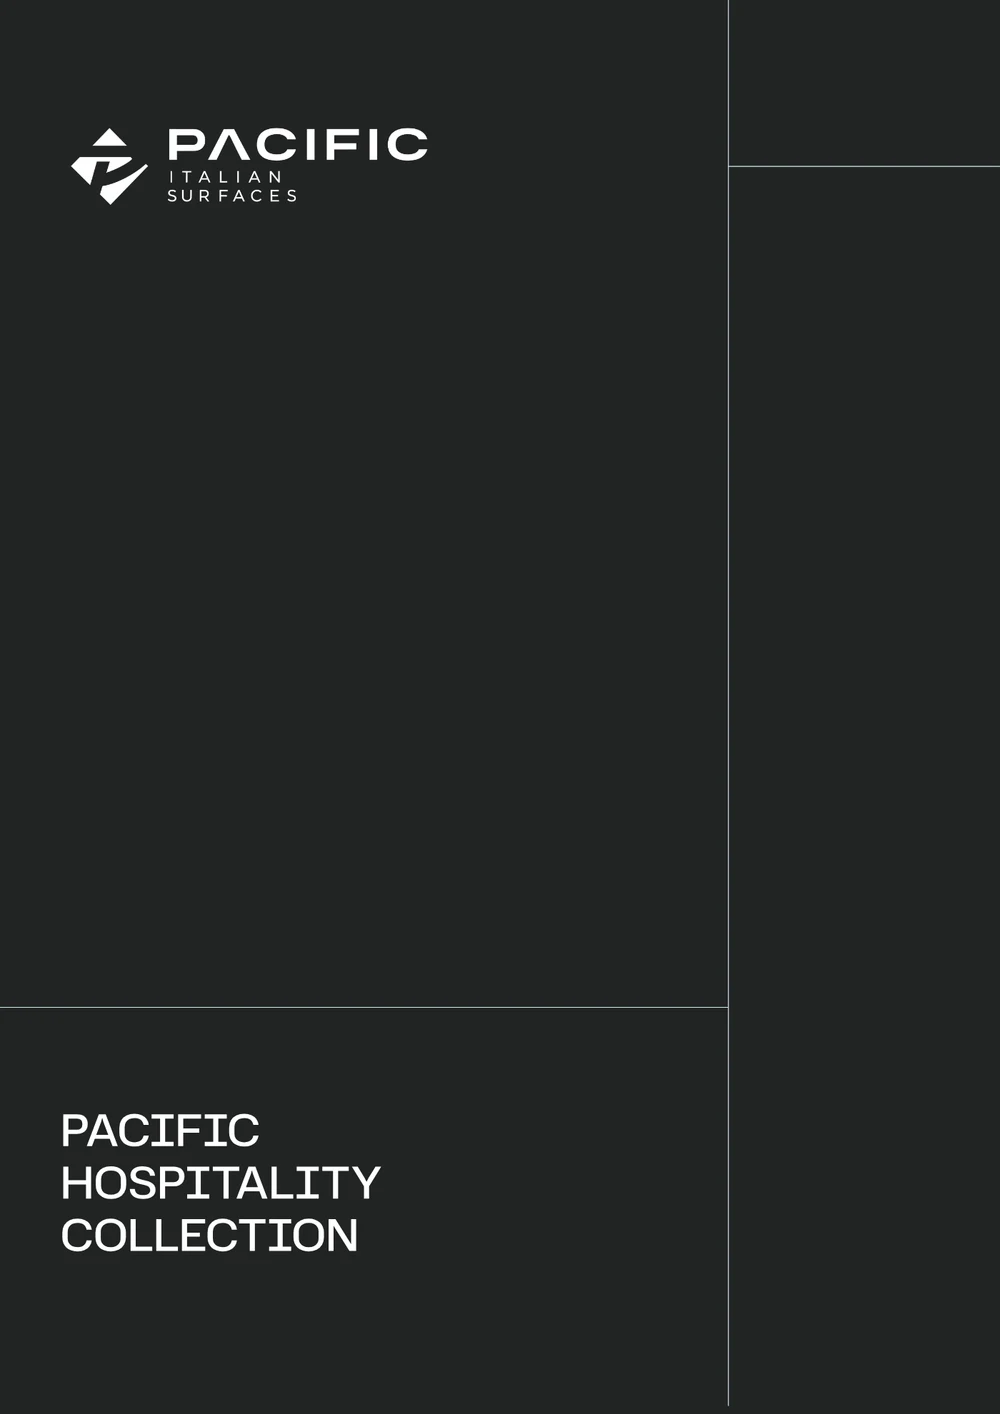
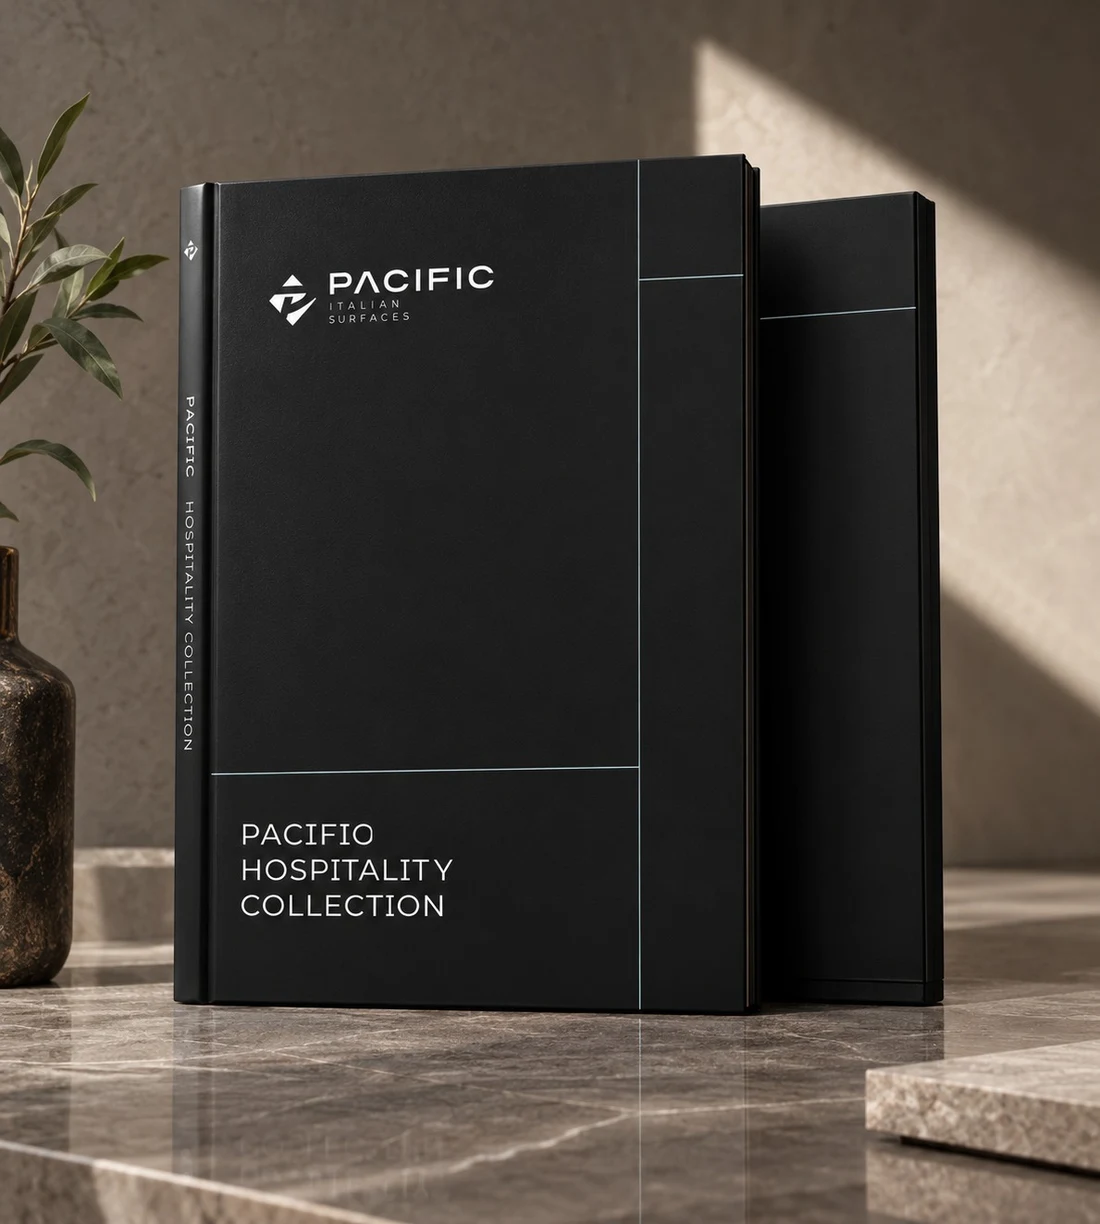
Open a catalogue by clicking the card, and use the supplied cover
The card itself now opens the reader, not only the Read button. It stays
a div with role="button" and a tab stop rather than a real <button>,
because a button cannot legally contain the Download anchor that sits
inside it; that anchor stops propagation so downloading does not also
open the reader. Enter and Space work, and there is a visible focus ring.

Verified: card body opens it, Read opens it, keyboard Enter opens it, and
Download does not.

Cover replaced with the supplied product shot. It was rendered from page
one of the PDF before, because the image had only ever been pasted into
chat; this one arrived on disk.

diff --git a/src/components/sections/ResourcesContent.tsx b/src/components/sections/ResourcesContent.tsx
@@ -181,7 +181,30 @@ function ResourceCard({ resource }: { resource: SanityResource }) {
 
   return (
     <StaggerItem>
-      <div className="group relative aspect-[3/4] overflow-hidden rounded-2xl bg-[#0a1620] border border-white/10 hover:border-white/25 transition-all duration-500">
+      {/* The whole card opens the reader, not just the Read button. Kept
+          as a div with an explicit role rather than a <button>, because a
+          button cannot legally contain the Download anchor. */}
+      <div
+        role={isReal ? "button" : undefined}
+        tabIndex={isReal ? 0 : undefined}
+        aria-label={isReal ? `Read ${resource.title}` : undefined}
+        onClick={isReal ? () => setReading(true) : undefined}
+        onKeyDown={
+          isReal
+            ? (e) => {
+                if (e.key === "Enter" || e.key === " ") {
+                  e.preventDefault();
+                  setReading(true);
+                }
+              }
+            : undefined
+        }
+        className={`group relative aspect-[3/4] overflow-hidden rounded-2xl bg-[#0a1620] border border-white/10 hover:border-white/25 transition-all duration-500 ${
+          isReal
+            ? "cursor-pointer focus-visible:outline focus-visible:outline-2 focus-visible:outline-offset-2 focus-visible:outline-white/60"
+            : ""
+        }`}
+      >
         {/* Thumbnail layer — fills the card. Real Sanity image when
             available; soft gradient + file watermark for fallback
             stubs so the card never looks broken. */}
@@ -261,6 +284,7 @@ function ResourceCard({ resource }: { resource: SanityResource }) {
                 rel="noreferrer noopener"
                 download={resource.pdfName ?? `${resource.title}.pdf`}
                 aria-label={`Download ${resource.title}`}
+                onClick={(e) => e.stopPropagation()}
                 className="inline-flex items-center rounded-full border border-white/35 bg-white/15 p-2 text-white backdrop-blur-md transition-all duration-300 hover:bg-white/25 hover:border-white/55"
               >
                 <Download className="h-4 w-4" />
